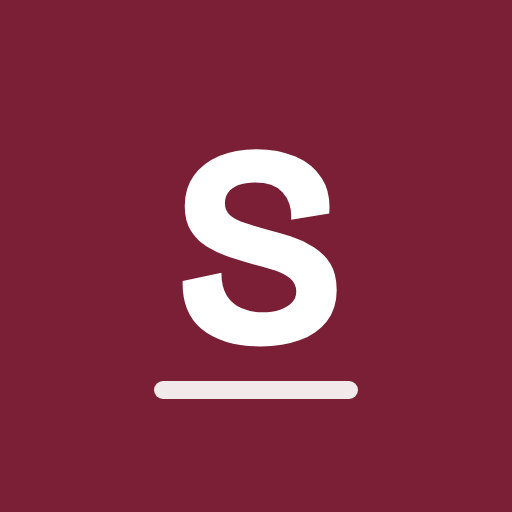
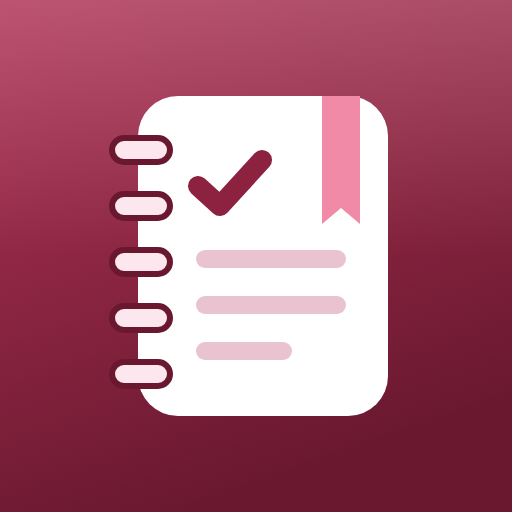
Novo ícone do app: caderno em degradê bordô
O ícone com um S e um traço foi trocado pelo caderno escolhido pela dona
(espiral, ✓, linhas e marcador) sobre o mesmo degradê bordô do app, nos
tamanhos 512, 192 e 180 (iPhone). VERSAO do sw.js foi para v4 para os
aparelhos baixarem os ícones novos.

Claude-Session: https://claude.ai/code/session_01HZ5gKS99u2jdMf7utpTEJq

diff --git a/sw.js b/sw.js
@@ -1,7 +1,7 @@
 // Service worker: um programinha que o navegador roda em segundo plano.
 // Ele guarda uma cópia do site para abrir mesmo sem internet.
 // Ao mudar este arquivo ou os ícones, aumente a VERSAO para os aparelhos baixarem a cópia nova.
-const VERSAO = "meu-semestre-v3";
+const VERSAO = "meu-semestre-v4";
 const ARQUIVOS = ["./", "index.html", "manifest.webmanifest", "icon-192.png", "icon-512.png", "apple-touch-icon.png"];
 
 self.addEventListener("install", e => {
